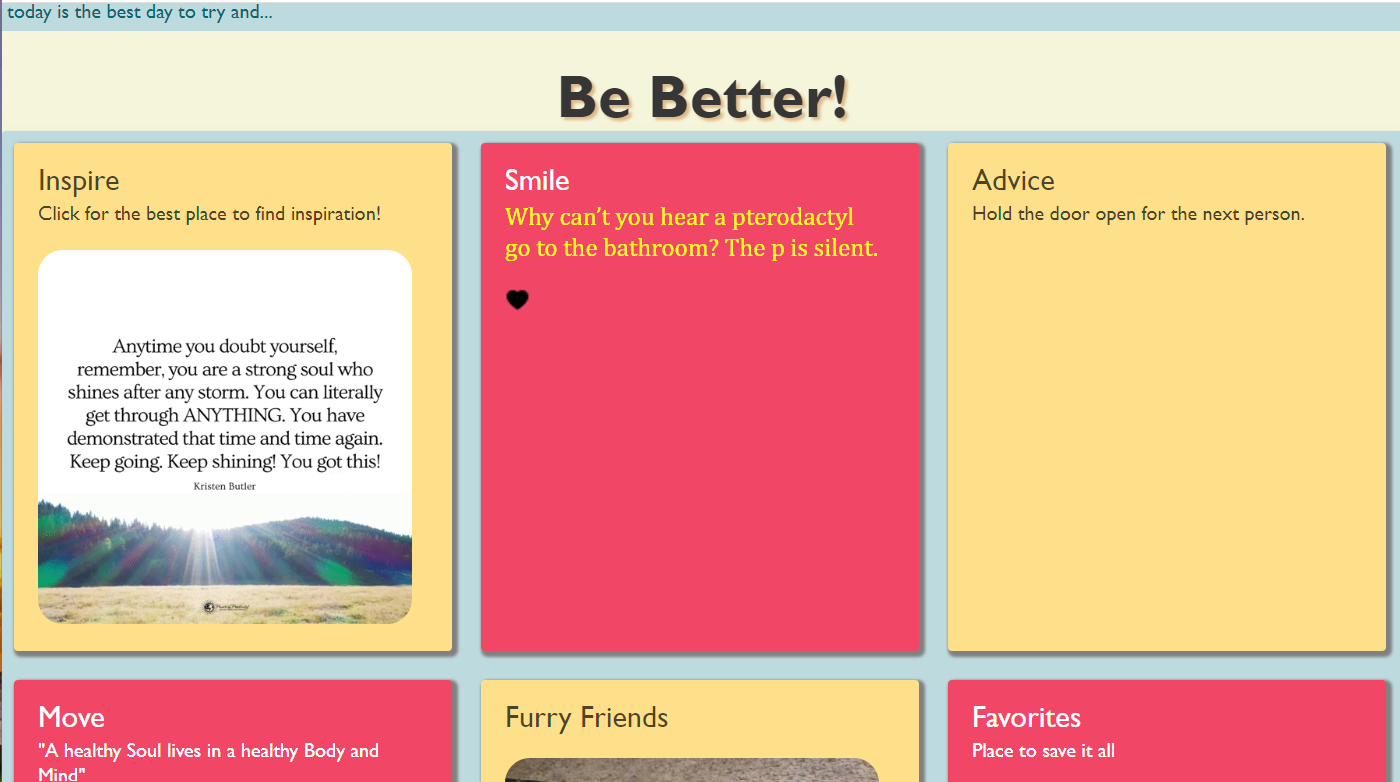
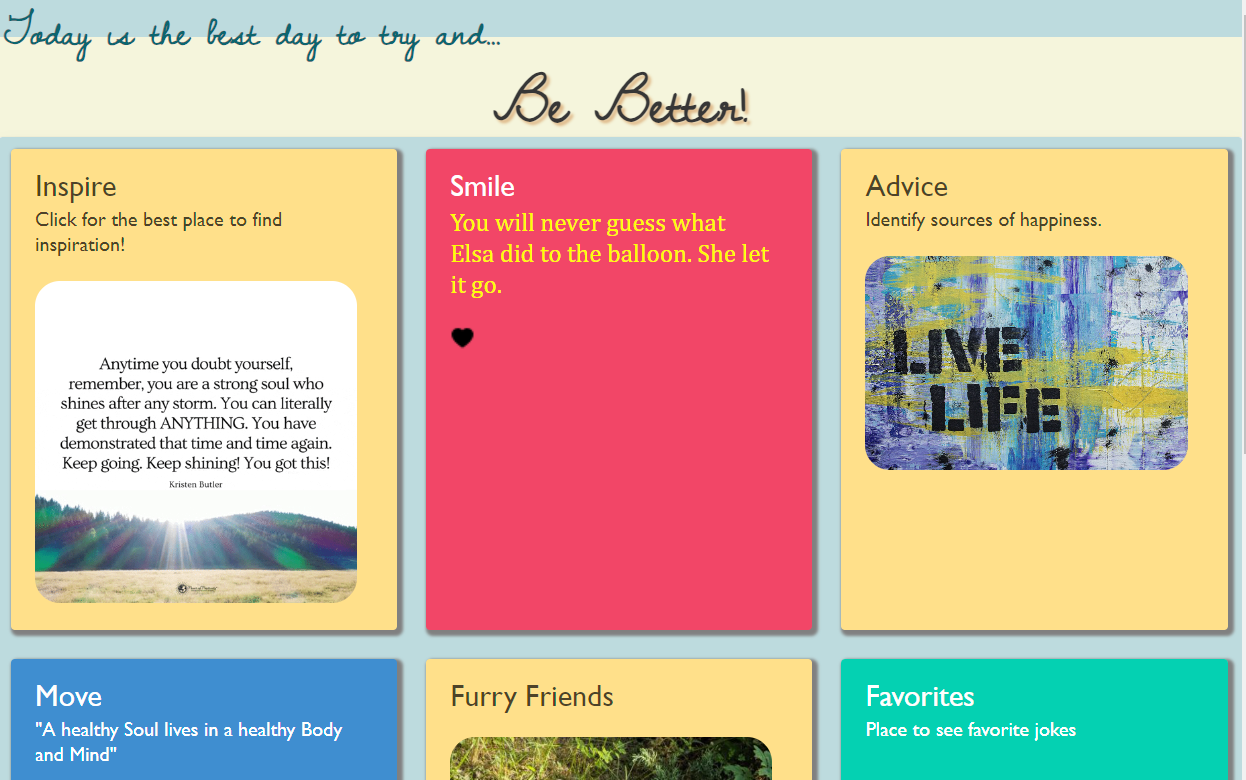
Update readme, add deployed website and latest screenshot

diff --git a/README.md b/README.md
@@ -7,9 +7,10 @@ It has categories a user can chose from to explore:
 
 1. Inspire
 2. Smile
-3. Move
-4. Advice
+3. Advice
+4. Move
 5. Furry Friends
+6. Favorites
 
 
 ![Screenshot](./assets/images/be-better.png)
@@ -40,6 +41,9 @@ It has categories a user can chose from to explore:
 
 ## Credit
 https://icons8.com/icons/set/heart
+
+## Website Link
+https://milindmjoshi.github.io/be-better/
 
 ## License
 
